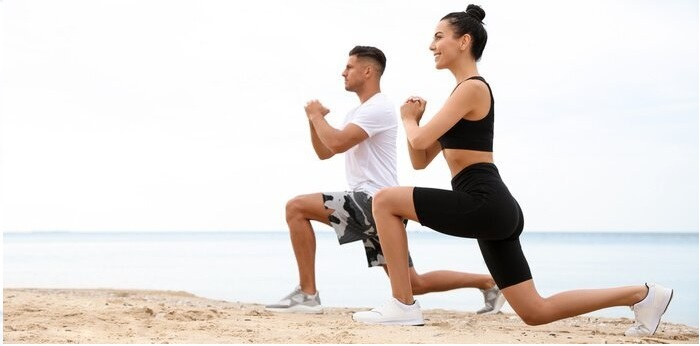
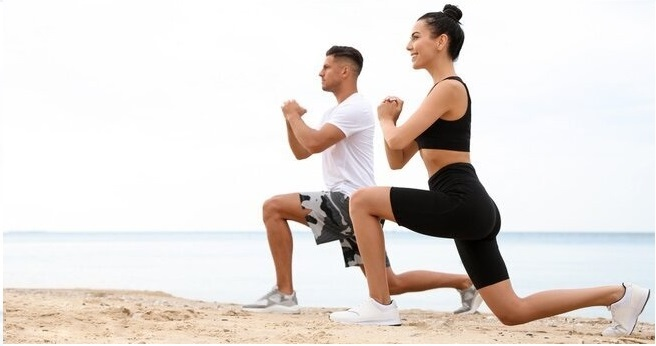
paths

diff --git a/pages/estilos.css b/pages/estilos.css
@@ -155,7 +155,7 @@ h2{
     
 }
 .Beneficios img{ 
-    height: 250px; 
+    height: 260px; 
 }
 
 
